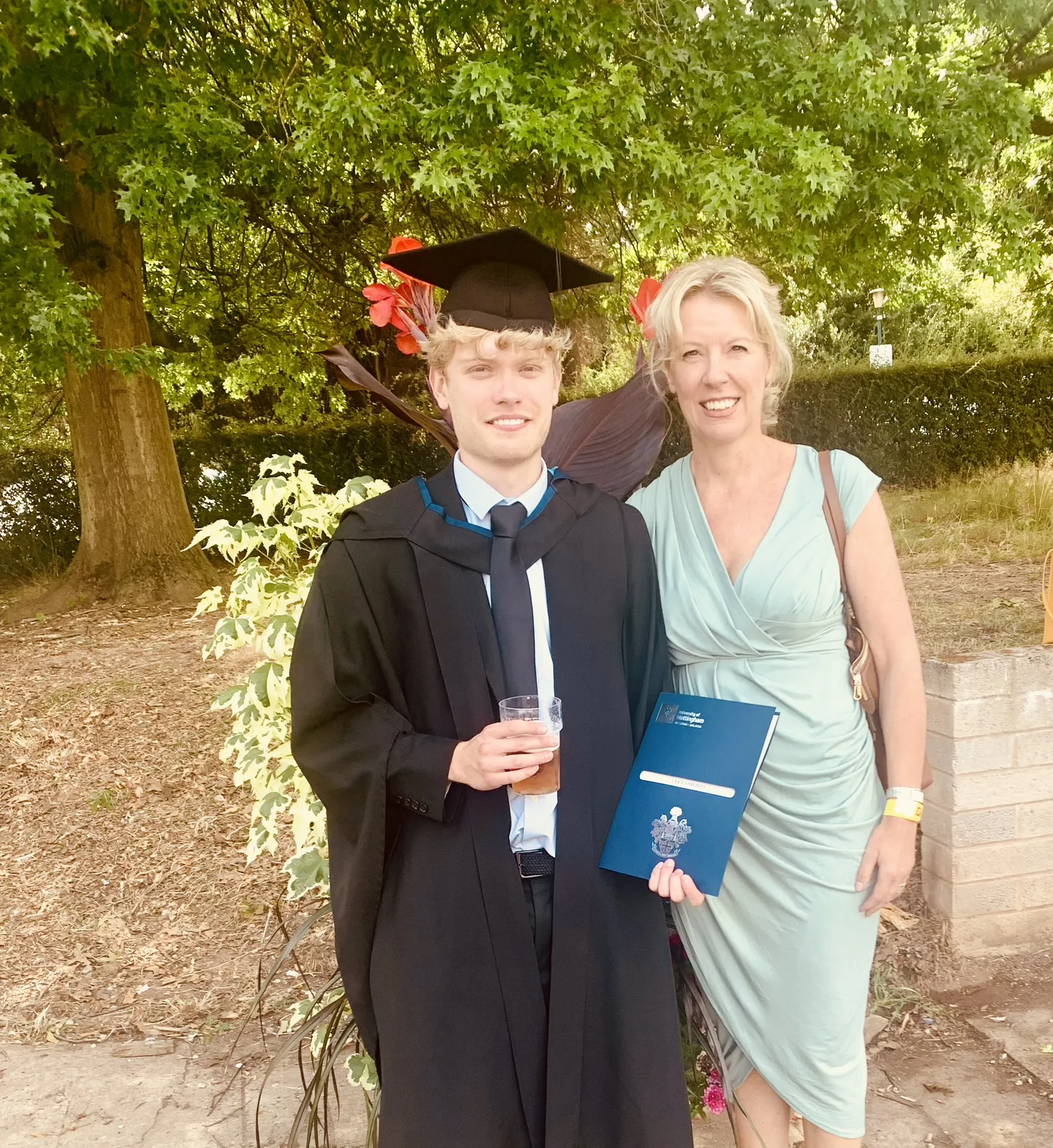
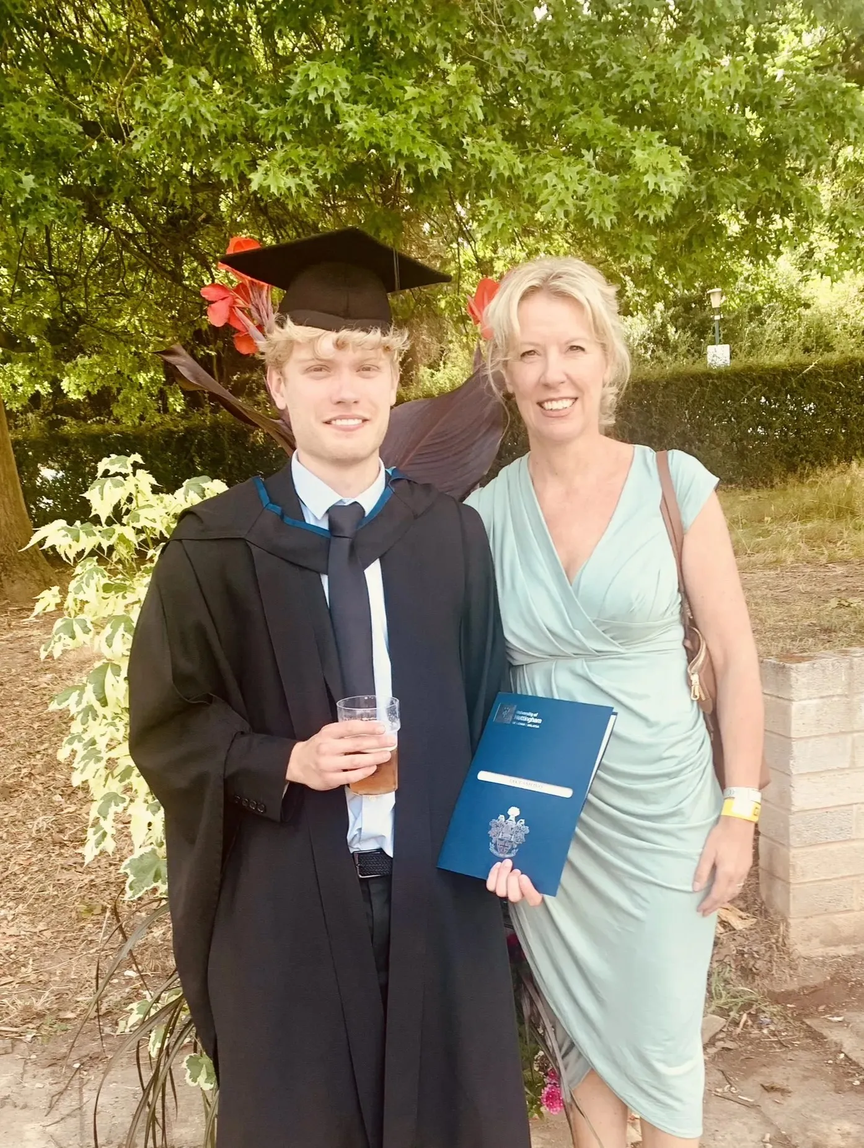
Cleared narrow floating text

diff --git a/src/pages/AboutPage.tsx b/src/pages/AboutPage.tsx
@@ -8,7 +8,7 @@ const AboutPage = () => {
       images={[
         { src: "/assets/general/cousins.webp", alt: "My cousin and I at a wedding" },
         { src: "/assets/general/grad_ball.webp", alt: "My friends and I at the Grad Ball" },
-        { src: "/assets/general/holiday.webp", alt: "Holiday with friends" }
+        { src: "/assets/general/laney.webp", alt: "My family's dog, Laney" }
       ]}
       maxHeight={200}
     />
@@ -16,19 +16,22 @@ const AboutPage = () => {
       <div style={{ flex: 1 }}>
         <h3>Background</h3>
         <p>
-          My surname is Ukrainian, but I am a British national who also holds Australian citizenship.
-          I am based in the East Midlands, England, and face no imposition relocating.
+          My surname is Ukrainian, but I am a British and Australian citizen.
+          I am currently based in the East Midlands, England, and face no imposition relocating.
         </p>
         <h3>Character</h3>
         <p>
-          In between University semesters, I have only ever really had superiors in the workplace,
-          which means that while I love to portray my ideas, I know my place.
-          Equally, I remember once getting a blazing hot, glass jug from the glass washer at work and telling my colleague that we should use something else for cold drinks while it cools.
-          They laughed, took it from me and... it shattered under the cold tap, so I suppose I also learned when to step up.
+          I approach new challenges by first taking the time to deeply understand the problem. 
+          For me, the real progress often comes in a single eureka moment — a turning point that tends to take just as long to reach in small projects as it does in larger, more complex ones. 
+          Because of this, I'm especially well-suited to tackling ambitious, multi-layered problems that reward patience and thorough analysis, even if I'm less at home in rapid-fire, reaction-based tasks.
         </p>
         <p>
           Outside of work, I like to think I've slowly introduced more of an appreciation for musical instruments to my friends.
-          In my spare time, I'll summon them for jam sessions and I love it when a weekend drinking session spirals into karaoke.
+          In my spare time, I'll summon them for jam sessions and we always try to base our social gatherings where there's live music.
+        </p>
+        <p>
+          I reserve Sundays for a family dog walk and roast dinner and make an effort to take the dog walking with a friend once a week.
+          Where I find time, I go to the gym then scatter in personal project work and guitar practice.
         </p>
       </div>
       <div style={{ flex: 1 }}>
@@ -41,12 +44,10 @@ const AboutPage = () => {
           I formed a band with friends from school around 2019 and a few months later we stole the show at a local fundraiser event.
           When university came about, our members ended up distributed across the country and we disbanded,
           which leaves me keen to join or form a new band down the track.
-          In the meantime, a patient process of learning to sing alongside my playing ensues.
         </p>
         <p>
-          In the past I have created riffs with the idea of making original songs.
-          They try to combine Metallica's soft-heavy-soft song structures like Fade to Black with exotic melodies like Cavatina from the Deer Hunter soundtrack,
-          with a strict policy for uniqueness, which must be my teacher's perfectionism rubbing off on me.
+          In the past I have created riffs with the idea of making original songs with a strict policy for uniqueness, 
+          which must be my teacher's perfectionism rubbing off on me. In the meantime, a patient process of learning to sing alongside my playing ensues.
         </p>
       </div>
     </div>

diff --git a/src/pages/HomePage.tsx b/src/pages/HomePage.tsx
@@ -1,4 +1,3 @@
-import BlockFloatContent from "../components/BlockFloatContent";
 import FloatImage from "../components/FloatImage";
 import HighlightsCarousel from "../components/HighlightsCarousel";
 import { Link } from "react-router-dom";
@@ -6,33 +5,32 @@ import { Link } from "react-router-dom";
 const HomePage = () => {
   return (
     <div>
-      <h1>Jake Smejko</h1>
-      <BlockFloatContent
+      <h1>Home</h1>
+      <FloatImage
         src="/assets/general/graduation_with_dad.webp"
         alt="My dad and I at graduation"
         float="left"
-      >
-        <FloatImage
-          src="/assets/general/graduation_with_mum.webp"
-          alt="My mum and I at graduation"
-          float="left"
-        />
-        <p>
-          My name is Jake Smejko and this website is a portfolio of my projects and skills from a first person, relatively colloquial perspective.
-          I graduated from the University of Nottingham on the 29<sup>th</sup> of July, 2025 in Electrical and Computer Engineering,
-          which posed challenges that sent many into despair but only grew my interest.
-        </p>
-        <p>
-          My drive for results means that methods which met my course's grading criteria came with maintainable, working end-products:
-          as a result, I don't have to beat around the bush when it comes to showcasing outcomes and articulating my methods.
-        </p>
-        <p>
-          Please feel free to have a look at my
-          <Link to="/cv"> CV </Link>
-          and/or get in contact via
-          <a href="mailto:jsmejko@outlook.com"> Email</a>.
-        </p>
-      </BlockFloatContent>
+      />
+      <FloatImage
+        src="/assets/general/graduation_with_mum.webp"
+        alt="My mum and I at graduation"
+        float="left"
+      />
+      <p>
+        My name is Jake Smejko and this website is a portfolio of my projects and skills from a first person, relatively colloquial perspective.
+        I graduated from the University of Nottingham on the 29<sup>th</sup> of July, 2025 in Electrical and Computer Engineering,
+        which posed challenges that sent some of my colleagues into despair but thankfully only served to grow my interest. <Link to="about">Find out more about me here...</Link>
+      </p>
+      <p>
+        My drive for results means that I wasn't content with using methods which would only meet the bare minimum of my course's grading criteria, but instead I strived to create maintainable, working end-products:
+        as a result, I can confidently showcase outcomes and articulate my methods. <Link to="projects">See for yourself here...</Link>
+      </p>
+      <p>
+        Please feel free to have a look at my
+        <Link to="/cv"> CV </Link>
+        and/or get in contact via
+        <a href="mailto:jsmejko@outlook.com"> Email</a>.
+      </p>
       <h3><Link to="projects">Project</Link> Highlight Videos</h3>
       <HighlightsCarousel />
     </div>

diff --git a/src/components/FloatImage.tsx b/src/components/FloatImage.tsx
@@ -1,39 +1,67 @@
-import { forwardRef } from "react";
-import type { FloatImageProps } from "../util/interfaces";
+import React, { forwardRef, useEffect, useRef, useState } from "react";
 
-const FloatImage = forwardRef<HTMLSpanElement, FloatImageProps>((
-  { src, alt, caption, float },
-  ref
-) => {
-  let className = 'captioned-image-container';
+interface FloatImageProps {
+  src: string;
+  alt: string;
+  caption?: string | boolean;
+  float?: "left" | "right";
+}
 
-  if (float === 'left') {
-    className += ' float-left';
-  } else if (float === 'right') {
-    className += ' float-right';
+const FloatImage = forwardRef<HTMLSpanElement, FloatImageProps>(
+  ({ src, alt, caption, float }, forwardedRef) => {
+    const localRef = useRef<HTMLSpanElement>(null);
+    const [shouldClear, setShouldClear] = useState(false);
+
+    console.log(shouldClear);
+
+    const adjustClear = () => {
+      if (!localRef.current) return;
+      const rect = localRef.current.getBoundingClientRect();
+
+      // Estimate remaining horizontal space for text
+      const spaceForText =
+        float === "left"
+          ? window.innerWidth - rect.right
+          : rect.left;
+
+      // console.log("Space for text:", spaceForText);
+
+      setShouldClear(spaceForText < 200);
+    };
+
+    useEffect(() => {
+      adjustClear();
+      window.addEventListener("resize", adjustClear);
+      return () => window.removeEventListener("resize", adjustClear);
+    }, []);
+
+    let className = "captioned-image-container";
+    if (float === "left") className += " float-left";
+    if (float === "right") className += " float-right";
+
+    return (
+      <>
+        <span ref={localRef} className={className}>
+          <img
+            src={src}
+            alt={alt}
+            style={{
+              maxHeight: 200,
+              maxWidth: "100%",
+              objectFit: "contain",
+            }}
+            draggable={false}
+          />
+          {caption && (
+            <i className="caption">
+              {typeof caption === "string" ? caption : alt}
+            </i>
+          )}
+        </span>
+        {shouldClear && <div style={{ clear: "both" }} />}
+      </>
+    );
   }
-
-  return (
-    <span ref={ref} className={className}>
-      <img
-        src={src}
-        alt={alt}
-        style={{
-          maxHeight: 200,
-          maxWidth: '100%',
-          objectFit: 'contain'
-        }}
-        draggable={false}
-      />
-      {caption ? (
-        // <figcaption>
-        <i className="caption">
-          {typeof caption === "string" ? caption : alt}
-        </i>
-        // </figcaption>
-      ) : null}
-    </span>
-  )
-});
+);
 
 export default FloatImage;

diff --git a/src/components/HighlightsCarousel.tsx b/src/components/HighlightsCarousel.tsx
@@ -2,15 +2,33 @@ import CaptionedVideo from "./CaptionedVideo";
 import Carousel from "./carousel/Carousel";
 
 const HighlightsCarousel = () => {
+  const videoRefs = new Map<number, React.RefObject<HTMLVideoElement>>();
+  
+  const handleSlideChange = (i: number) => {
+    videoRefs.forEach((r, idx) => {
+      if (r.current === null) return;
+      if (idx !== i) {
+        r.current.pause();
+        r.current.currentTime = 0;
+      } else {
+        r.current.play();
+      }
+    });
+  };
+
   return (
     <Carousel
       className="carousel"
+      onSlideChange={handleSlideChange}
     >
       <div>
         <h4>3D tracking of items using canon orthogonal camera feed, transferred via UDP from a Raspberry Pi</h4>
         <CaptionedVideo 
           src="assets/dissertation/implemented_tracker.mp4" 
           maxHeight={600}
+          ref={el => { 
+            if (el) videoRefs.set(0, { current: el }) 
+          }}
         />
       </div>
       <div>
@@ -18,6 +36,9 @@ const HighlightsCarousel = () => {
         <CaptionedVideo 
           src="assets/autonomousVehicle/ir_navigation.mp4"
           maxHeight={600}
+          ref={el => { 
+            if (el) videoRefs.set(1, { current: el }) 
+          }}
         />
       </div>
       <div>
@@ -25,6 +46,9 @@ const HighlightsCarousel = () => {
         <CaptionedVideo 
           src="assets/CADSoftware/stl_video.mp4"
           maxHeight={600} 
+          ref={el => {
+            if (el) videoRefs.set(2, { current: el })
+          }}
         />
       </div>
     </Carousel>

diff --git a/src/components/CaptionedVideo.tsx b/src/components/CaptionedVideo.tsx
@@ -5,10 +5,11 @@ interface CaptionedVideoProps {
   src: string;
   maxHeight?: number | string;
   caption?: string;
+  onLoad?: () => void;
 };
 
 const CaptionedVideo = forwardRef<HTMLVideoElement, CaptionedVideoProps>((
-  { src, maxHeight, caption },
+  { src, maxHeight, caption, onLoad },
   ref
 ) => {
   return (
@@ -23,6 +24,7 @@ const CaptionedVideo = forwardRef<HTMLVideoElement, CaptionedVideoProps>((
           controls
           muted
           loop
+          onLoadedData={onLoad}
         />
       </div>
       <figcaption>

diff --git a/src/components/CaptionedImageRow.tsx b/src/components/CaptionedImageRow.tsx
@@ -102,7 +102,7 @@ const CaptionedImageRow = ({ images, caption, maxHeight }: CaptionedImageProps) 
                   marginTop: 6,
                 }}
               >
-                {img.caption}
+                {typeof img.caption === "string" ? img.caption : img.caption && img.alt}
               </figcaption>
             )}
           </figure>

diff --git a/src/components/carousel/Carousel.tsx b/src/components/carousel/Carousel.tsx
@@ -184,7 +184,10 @@ const Carousel = ({
       <DotNavigation
         numDots={keyedChildren.length}
         currentIndex={currentIndex}
-        onChange={setCurrentIndex}
+        onChange={i => {
+          setCurrentIndex(i);
+          onSlideChange?.(i);
+        }}
       />
     </div>
   );

diff --git a/src/App.css b/src/App.css
@@ -154,3 +154,8 @@
   background-color: #26284d;
   border-radius: 8px;
 }
+
+.clear {
+  clear: both;
+  margin-bottom: 1em;
+}
